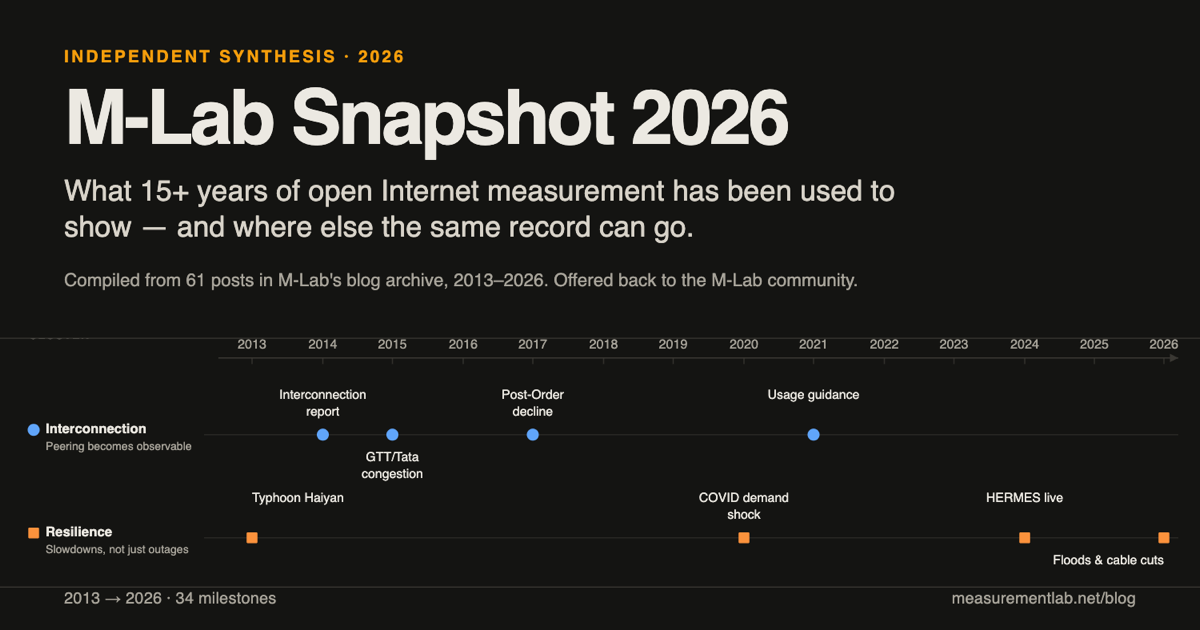
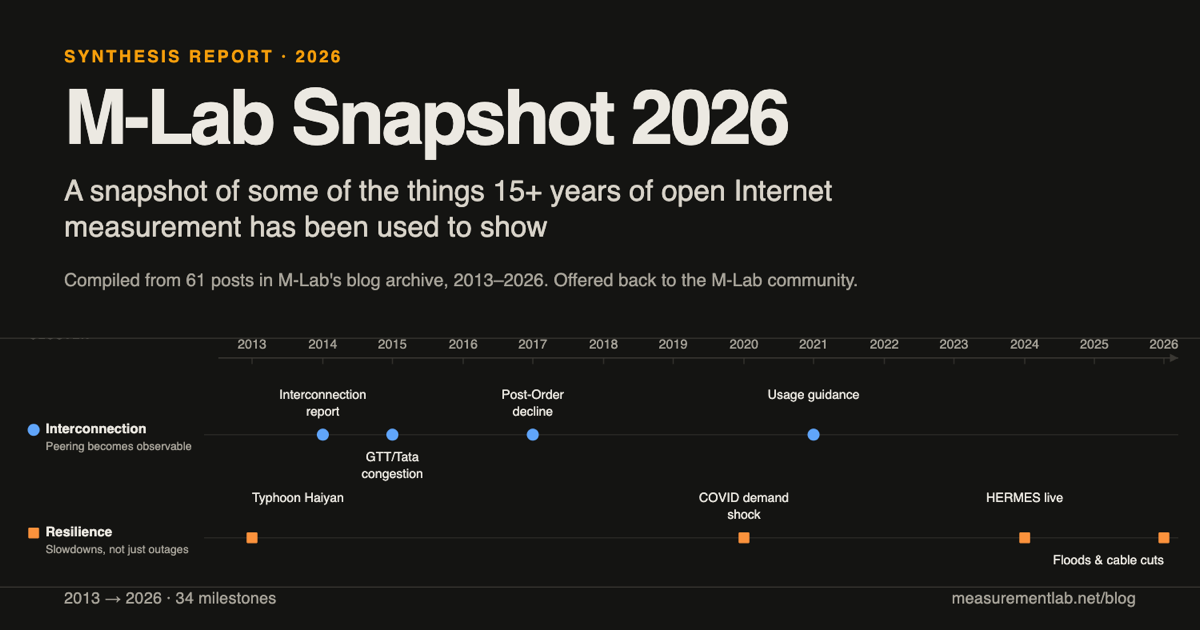
Add social card and align metadata with revised copy

Changed region(s): [[0.0308, 0.2714, 0.74, 0.3921], [0.0617, 0.0603, 0.3392, 0.1206]]

diff --git a/template.html b/template.html
@@ -4,10 +4,10 @@
   <meta charset="utf-8">
   <meta name="viewport" content="width=device-width, initial-scale=1">
   <title>$title$ — M-Lab Snapshot 2026</title>
-  <meta name="description" content="An 2026 synthesis of what 15+ years of M-Lab's open Internet measurement record has been used to show.">
+  <meta name="description" content="A 2026 synthesis of what 15+ years of M-Lab's open Internet measurement record has been used to show.">
   <meta name="author" content="Jonah Duckles">
   <meta property="og:title" content="M-Lab Snapshot 2026">
-  <meta property="og:description" content="What 15+ years of open Internet measurement has been used to show — and where else the same record can go.">
+  <meta property="og:description" content="A snapshot of some of the things 15+ years of open Internet measurement has been used to show.">
   <meta property="og:type" content="article">
   <meta property="og:url" content="https://jduckles.github.io/mlab-snapshot-2026/">
   <meta property="og:site_name" content="M-Lab Snapshot 2026">
@@ -19,7 +19,7 @@
   <meta property="og:image:alt" content="M-Lab Snapshot 2026 social card: a timeline of Internet measurement reuse from 2013 to 2026.">
   <meta name="twitter:card" content="summary_large_image">
   <meta name="twitter:title" content="M-Lab Snapshot 2026">
-  <meta name="twitter:description" content="What 15+ years of open Internet measurement has been used to show — and where else the same record can go.">
+  <meta name="twitter:description" content="A snapshot of some of the things 15+ years of open Internet measurement has been used to show.">
   <meta name="twitter:image" content="https://jduckles.github.io/mlab-snapshot-2026/social-card.png">
   <meta name="twitter:image:alt" content="M-Lab Snapshot 2026 social card: a timeline of Internet measurement reuse from 2013 to 2026.">
   <link rel="stylesheet" href="styles.css">
@@ -29,7 +29,7 @@
     <p class="kicker">Synthesis Report · 2026</p>
     <h1 class="site-title">M-Lab Snapshot 2026</h1>
     <p class="deck">A snapshot of some of the things 15+ years of open Internet measurement has been used to show</p>
-    <p class="byline"><strong>By Jonah Duckles.</strong> Compiled from 61 posts in M-Lab's blog archive, 2013–2026. It is synthesis, offered back to the M-Lab community for reuse, correction, and expansion.</p>
+    <p class="byline"><strong>By Jonah Duckles.</strong> Compiled from 61 posts in M-Lab's blog archive, 2013–2026. It is a synthesis, offered back to the M-Lab community for reuse, correction, and expansion.</p>
   </header>
 
   <main>

diff --git a/README.md b/README.md
@@ -10,7 +10,7 @@ I compiled this from 61 posts in M-Lab's blog archive, 2013–2026. It is not an
 
 - `index.html` — generated at build time; the GitHub Pages page with the linked timeline and full annotated inventory.
 - [`measurement-retrospective.svg`](measurement-retrospective.svg) — the standalone timeline. Each milestone links to its source post.
-- [`measurement-data-inventory.md`](measurement-data-inventory.md) — the annotated inventory, with 81 inline citations to 61 posts.
+- [`measurement-data-inventory.md`](measurement-data-inventory.md) — the annotated inventory, with 63 inline citations to 61 posts.
 - `social-card.png` — 1200×630 Open Graph and Twitter card image.
 - `template.html`, `styles.css`, `build.py` — the build that turns the Markdown and SVG into the page.
 
